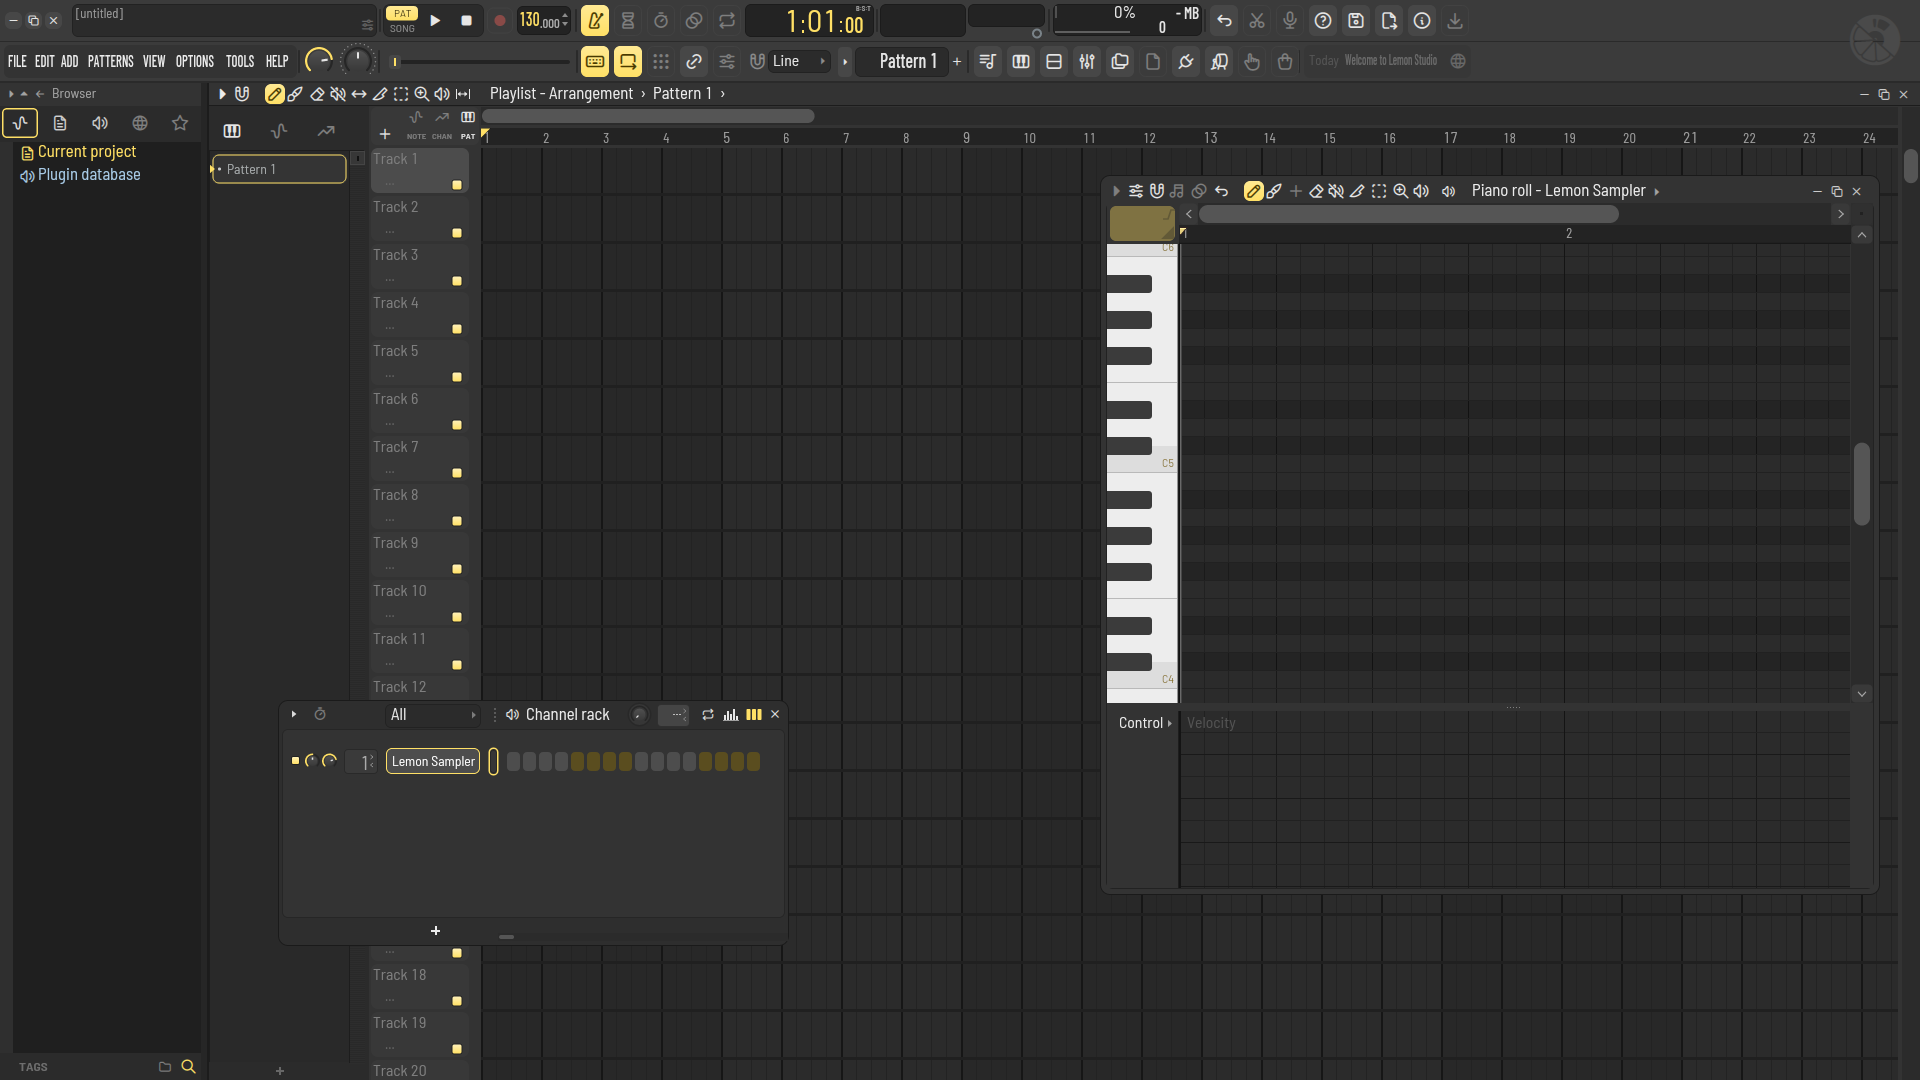
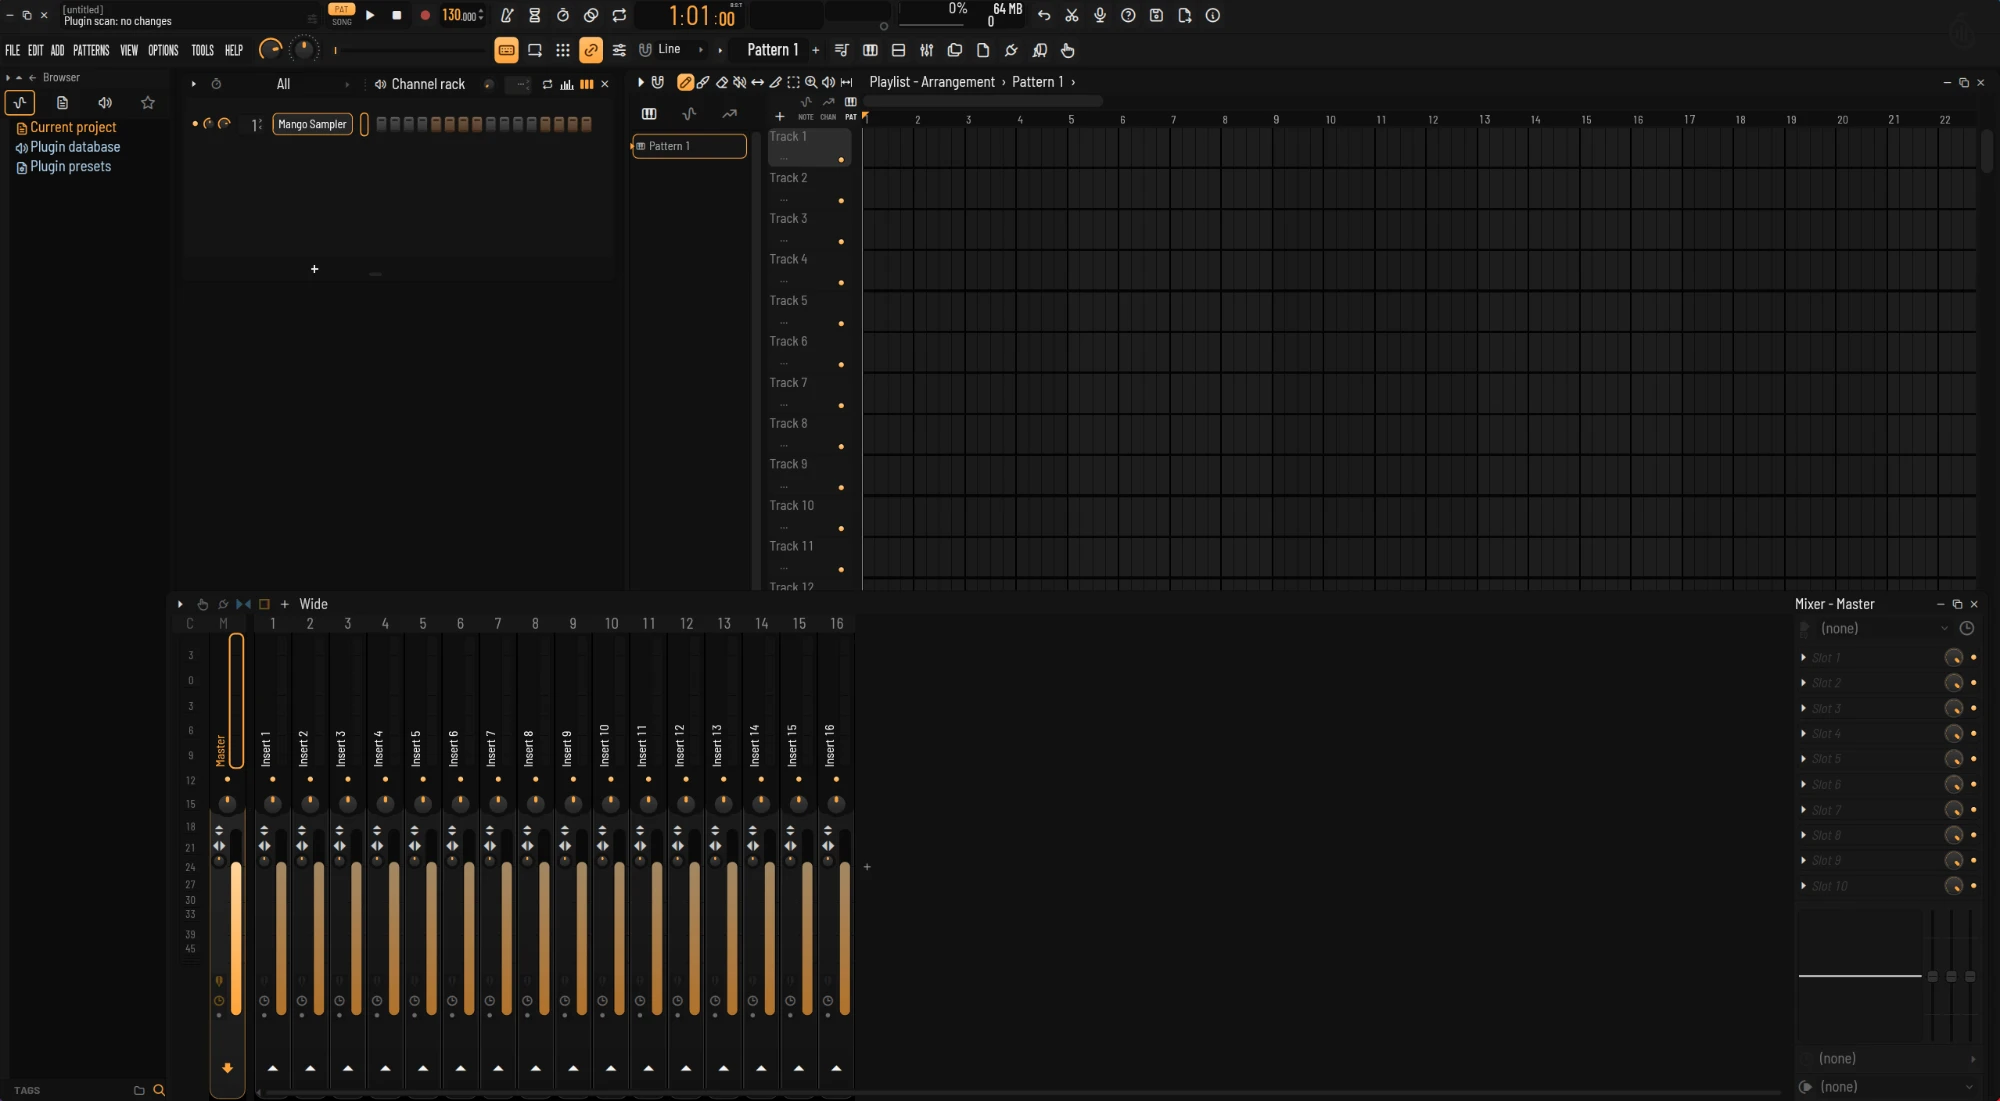
README: a screenshot of Mango Studio's black look
The main screenshot shows Mango Studio as it is now: the black Mango skin with the browser, the channel rack, the
playlist and the mixer. Its alt text follows.

diff --git a/README.md b/README.md
@@ -31,7 +31,7 @@
 
 <br>
 
-<img alt="Mango Studio with the browser, playlist, channel rack and piano roll open" src="docs/assets/screenshot.webp" width="900">
+<img alt="Mango Studio with the browser, channel rack, playlist and mixer open" src="docs/assets/screenshot.webp" width="900">
 
 </div>
 
